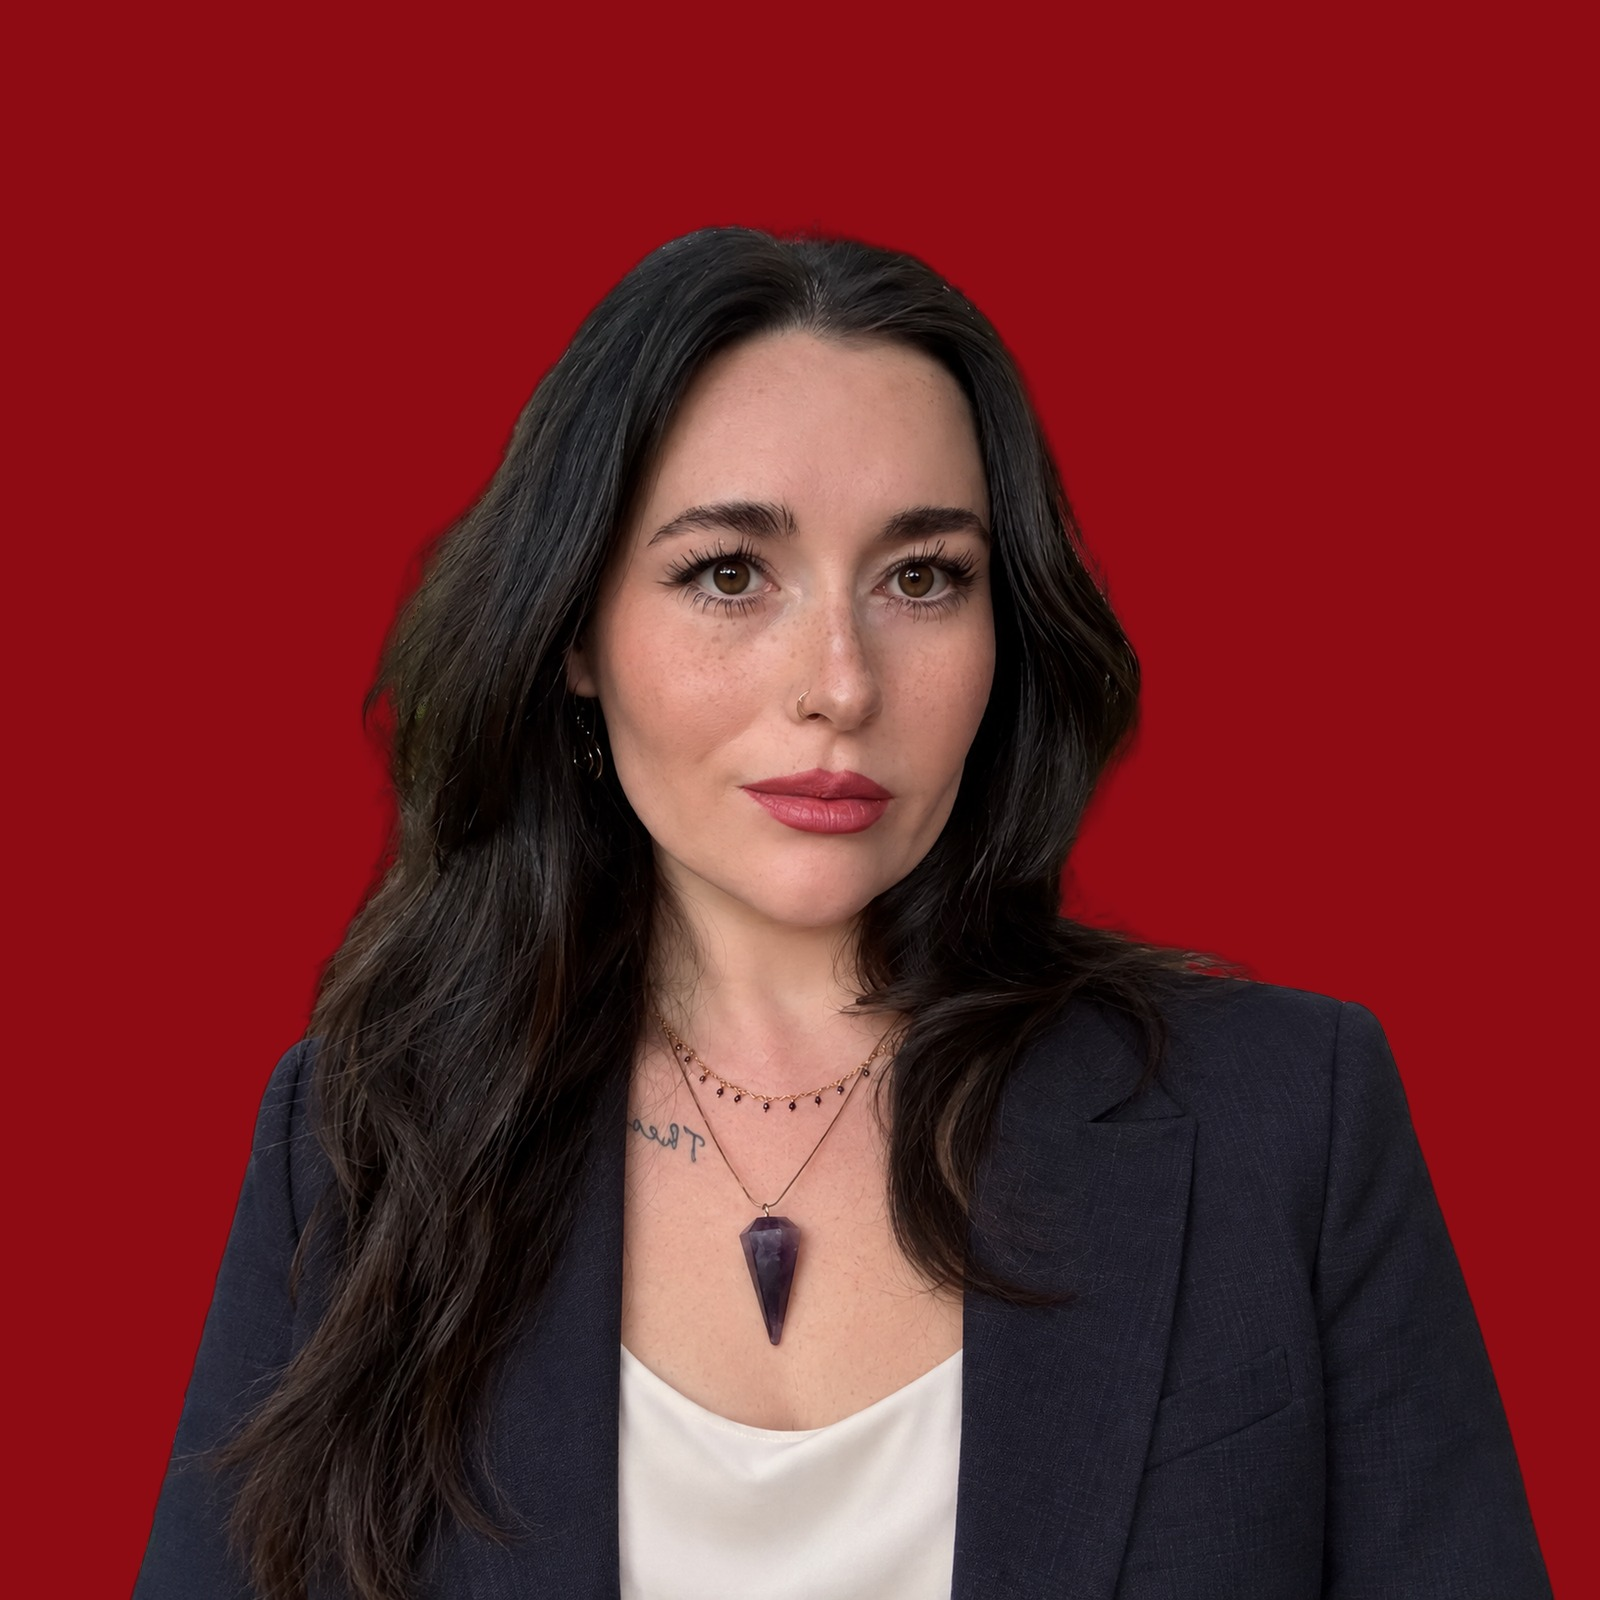
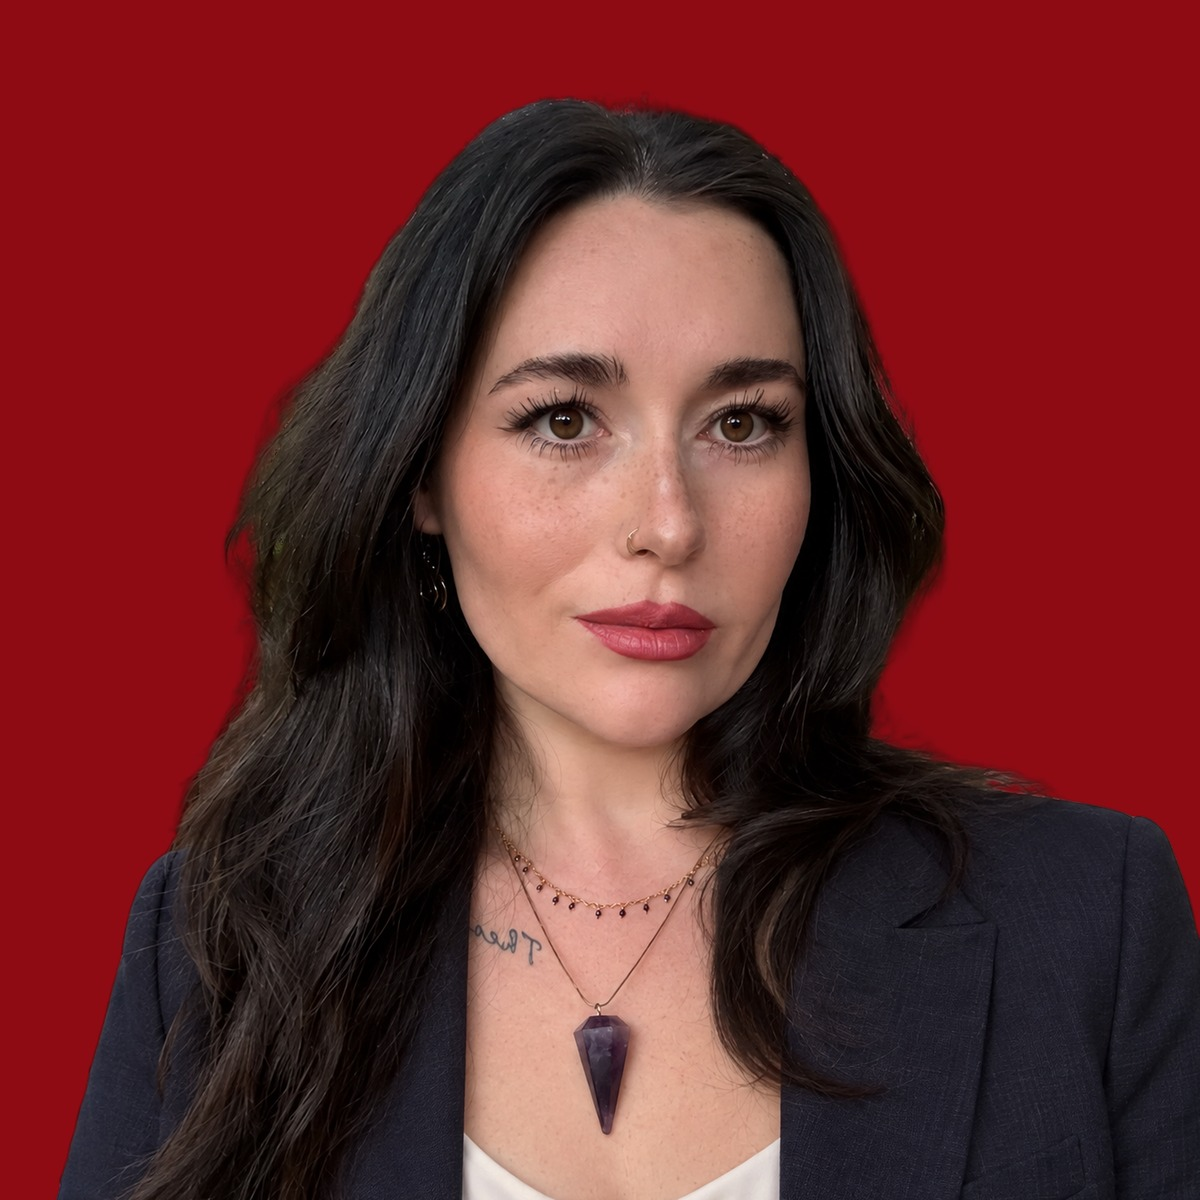
A closer crop of the founder's photograph, shown smaller
The square was the whole frame, with a third of it empty above her head,
and it stood as wide as the paragraph beside it. It is now head and
shoulders down to the pendant, and about two thirds the size on the
page, so it sits beside the note as a portrait rather than leading it.

Claude-Session: https://claude.ai/code/session_01JK2PB3QAa6TdnYw3VhGRKM

diff --git a/src/assets/css/site.css b/src/assets/css/site.css
@@ -4658,8 +4658,8 @@ img.is-developing {
 
 .prose .founder {
   float: left;
-  width: min(17rem, 44%);
-  margin: 0.35rem var(--s5) var(--s3) 0;
+  width: min(11rem, 38%);
+  margin: 0.35rem var(--s4) var(--s2) 0;
 }
 
 .prose .founder img {
@@ -4667,7 +4667,7 @@ img.is-developing {
   width: 100%;
   height: auto;
   border: 1px solid var(--rule-soft);
-  box-shadow: var(--lift-2);
+  box-shadow: var(--lift-1);
 }
 
 .prose .founder figcaption {
@@ -4702,8 +4702,7 @@ img.is-developing {
 @media (max-width: 34rem) {
   .prose .founder {
     float: none;
-    width: 100%;
-    max-width: 22rem;
+    width: 9.5rem;
     margin: 0 0 var(--s4);
   }
 }
